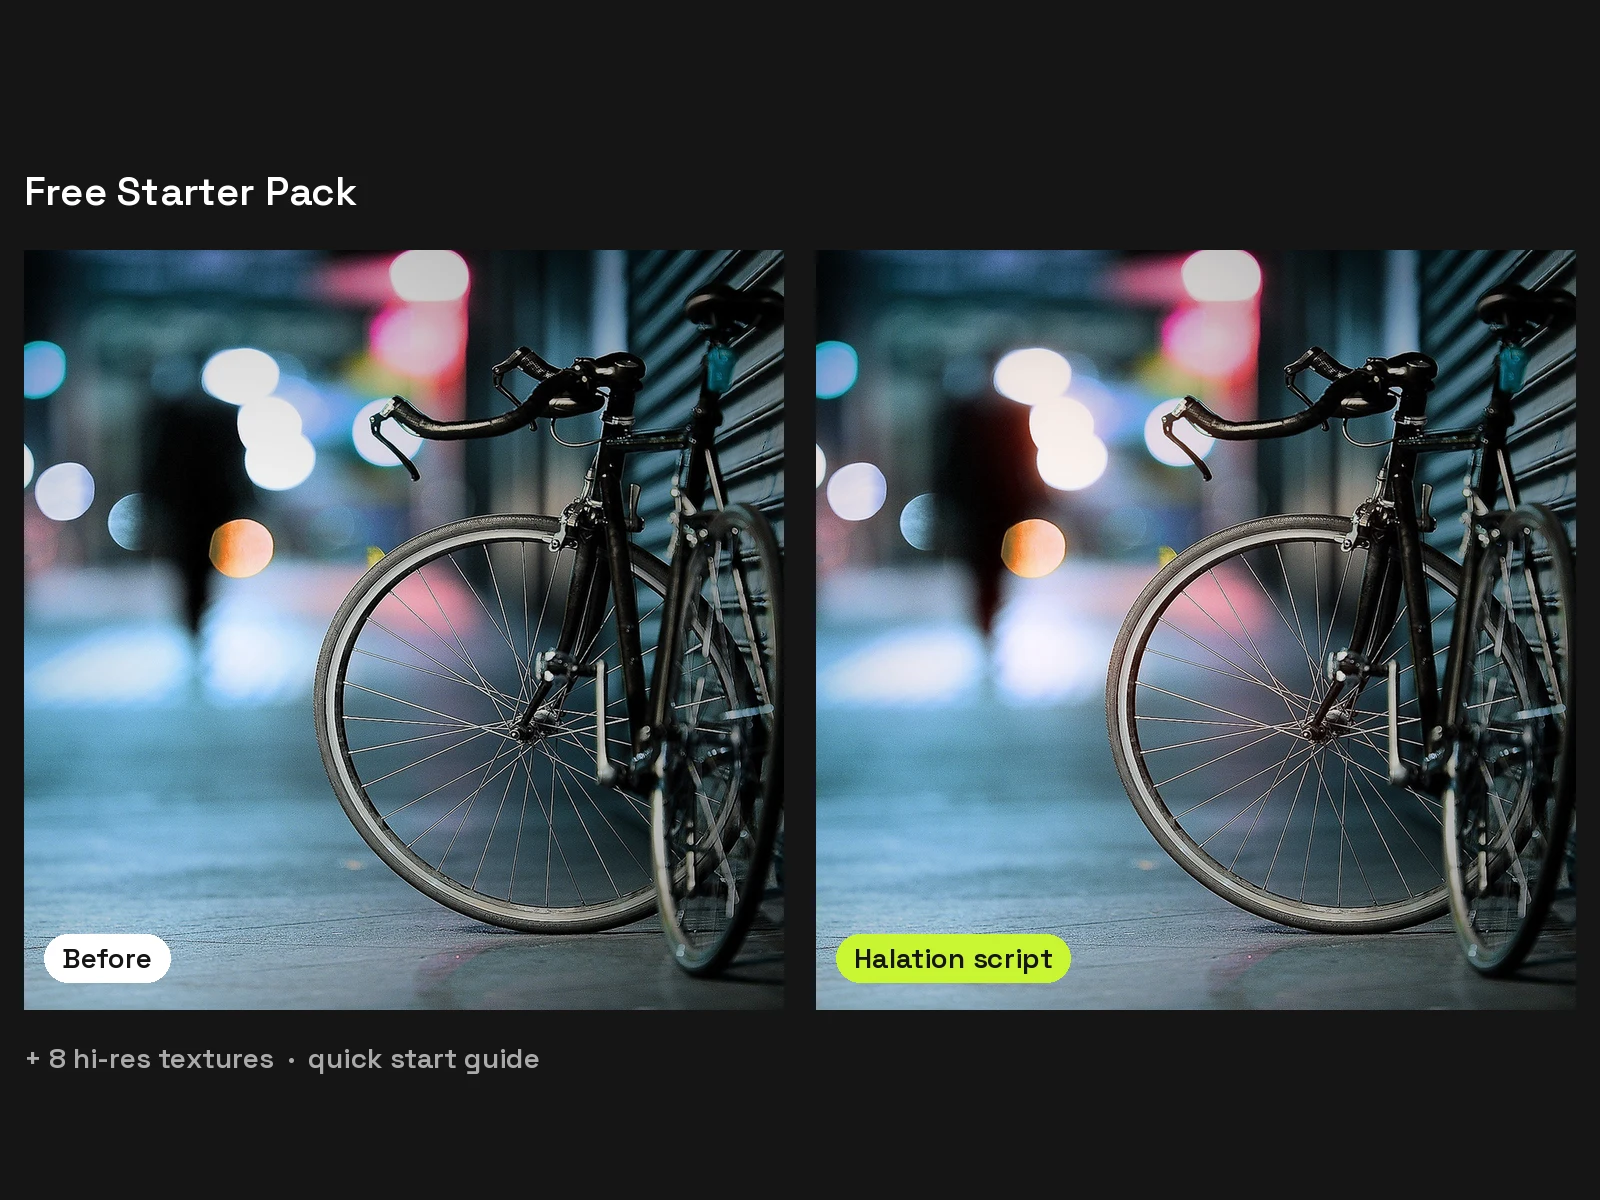
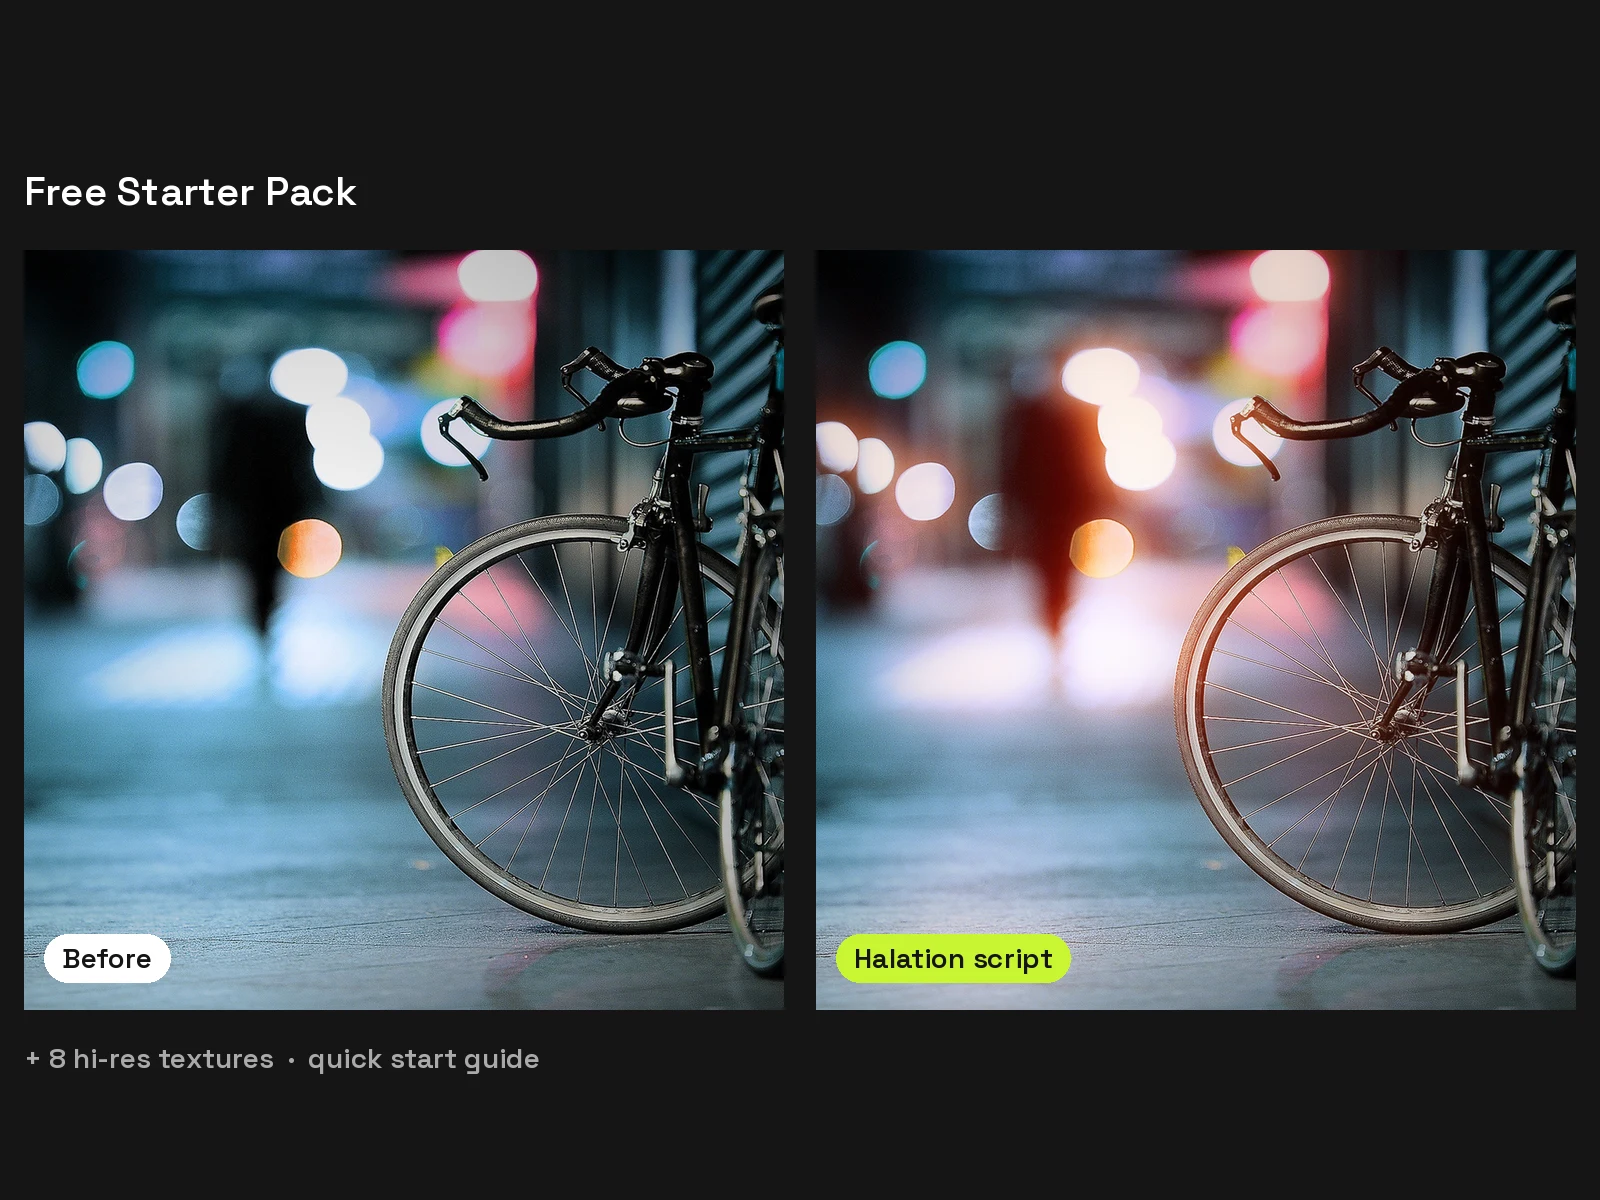
Stronger Halation before/after on the Free Starter Pack cover
Claude-Session: https://claude.ai/code/session_01HkLuk7nQtRKSDjt33gFM95

diff --git a/src/content/products/free-starter-pack.md b/src/content/products/free-starter-pack.md
@@ -12,7 +12,7 @@ motif: dots
 cover: /images/products/free-starter-pack/01.webp
 gallery:
   - image: /images/products/free-starter-pack/01.webp
-    alt: "Before and after: a bicycle on a night street, with a warm halation glow around the city lights"
+    alt: "Before and after: a bicycle on a night street, with a red film glow bleeding around the city lights"
   - image: /images/products/free-starter-pack/02.webp
     alt: "Cyan and green glitch texture"
   - image: /images/products/free-starter-pack/03.webp
